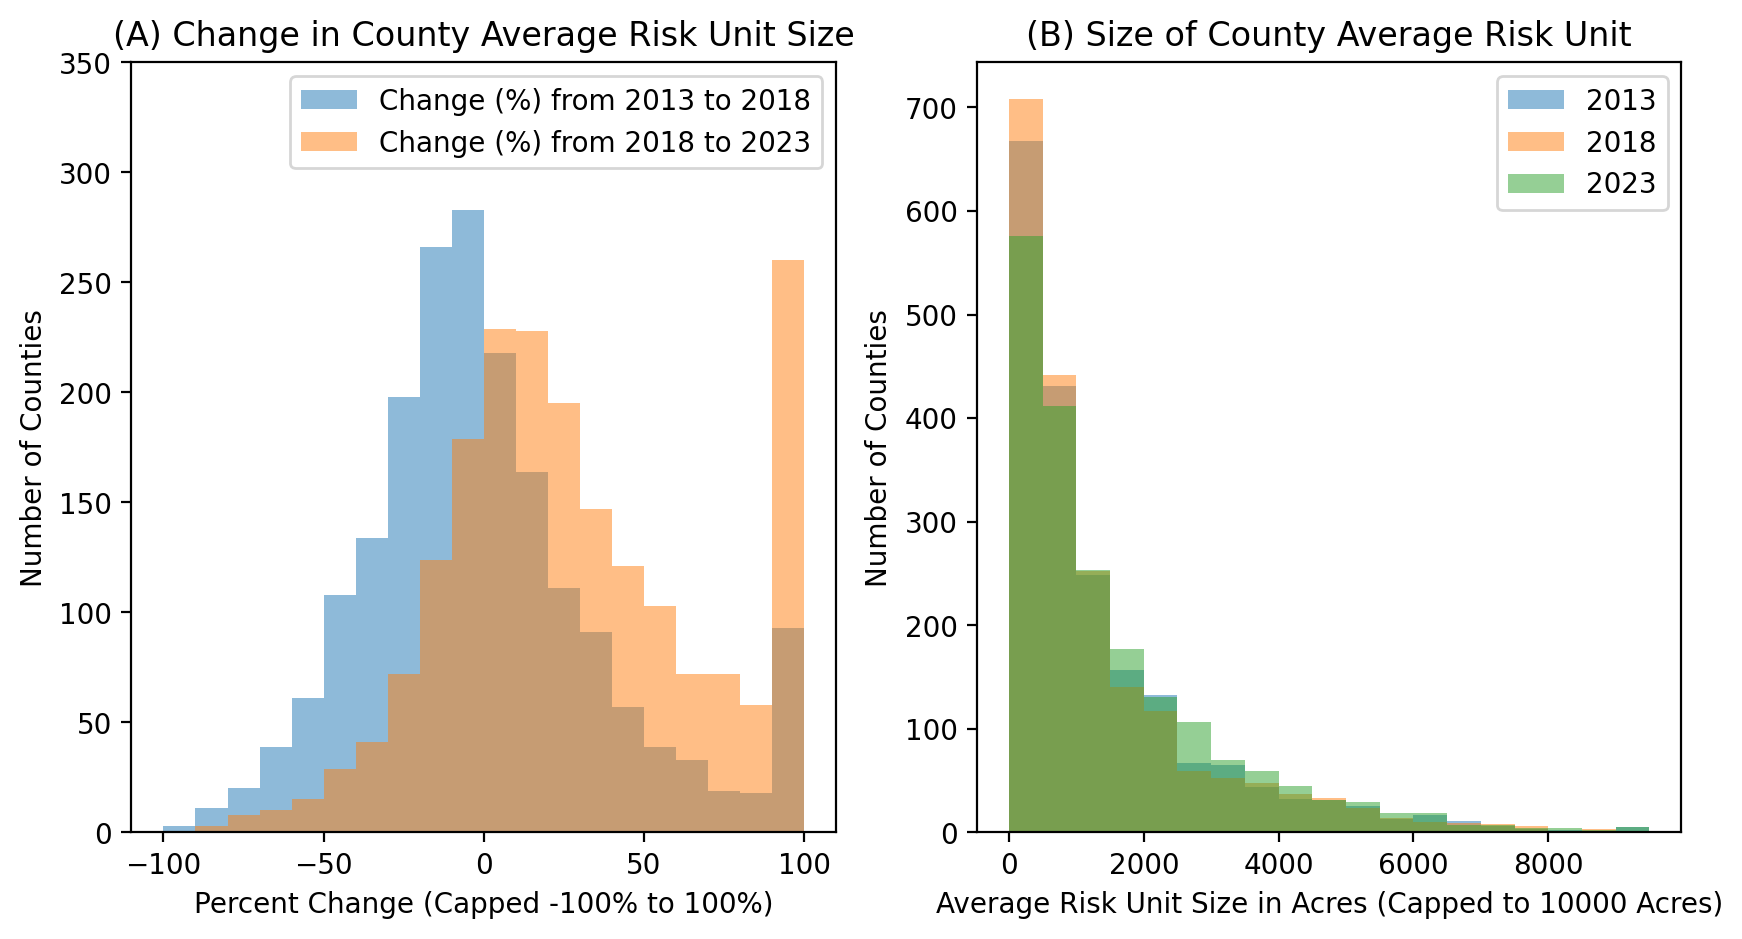
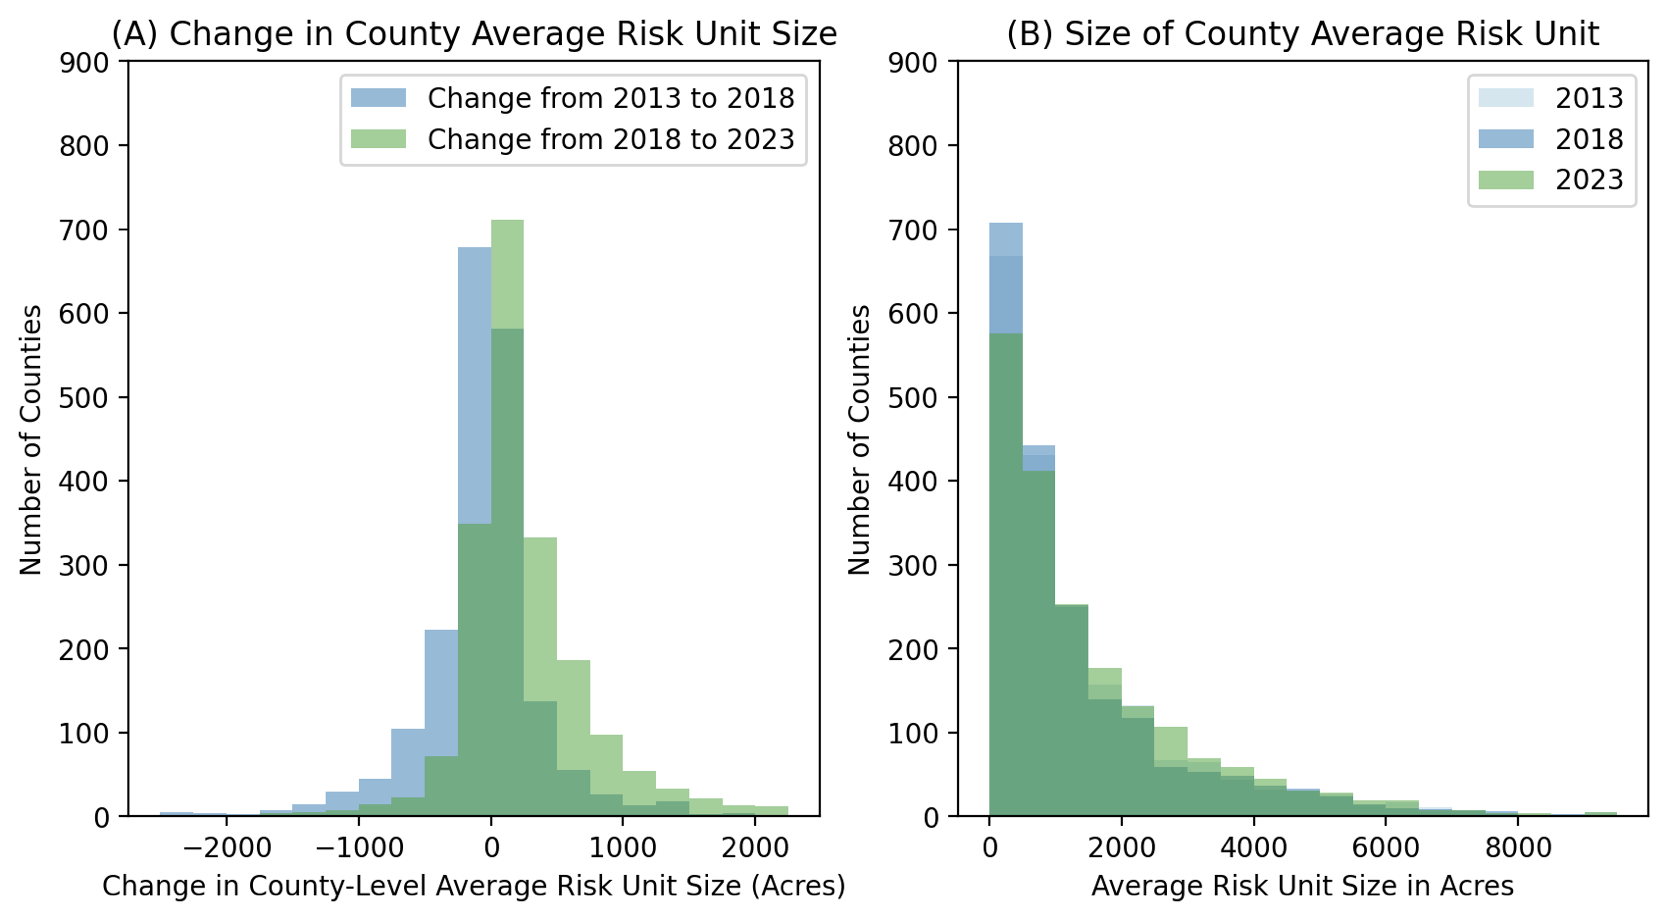
Additional updates to risk unit size discussion in supplemental.

Changed region(s): [[0.0, 0.0, 0.9976, 0.9739], [0.5923, 0.0, 0.9976, 0.2435]]

diff --git a/paper/supplemental.md b/paper/supplemental.md
@@ -42,9 +42,9 @@ We specifically use Mann Whitney U [@mann_test_1947] as variance is observed to 
 # Risk unit size
 The USDA provides anonymized information about insured units [@rma_statecountycrop_2024]. Though this information lacks geographic specificity, the USDA indicates the county in which these units are located. We provide a histogram of this distribution in Figure @fig:riskunit.
 
-![Examination of risk unit size in years 2013, 2018, and 2023. Visualizes the average size of the risk unit within a county. First, this figure shows how risk unit size changed between each year examined (A) to highlight that the structures do evolve substantially between years. However, these results also indicate that the overall distribution of risk unit sizes is relatively stable (B).](./img_static/risk_unit_shape.png "Examination of risk unit size in years 2013, 2018, and 2023. Visualizes the average size of the risk unit within a county. First, this figure shows how risk unit size changed between each year examined (A) to highlight that the structures do evolve substantially between years. However, these results also indicate that the overall distribution of risk unit sizes is relatively stable (B) when considered system-wide."){ width=95% #fig:riskunit}
+![Examination of risk unit size in years 2013, 2018, and 2023. Visualizes the average size of the risk unit within a county. First, this figure shows how risk unit size changed between each year examined (A) to highlight that the structures do evolve substantially between years. However, these results also indicate that the overall distribution of risk unit sizes is relatively stable (B) when considered system-wide. Some extreme outliers not shown to preseve detail.](./img_static/risk_unit_shape.png "Examination of risk unit size in years 2013, 2018, and 2023. Visualizes the average size of the risk unit within a county. First, this figure shows how risk unit size changed between each year examined (A) to highlight that the structures do evolve substantially between years. However, these results also indicate that the overall distribution of risk unit sizes is relatively stable (B) when considered system-wide. Some extreme outliers not shown to preseve detail."){ width=95% #fig:riskunit}
 
-Analysis highlights year to year instability at the county level which may reflect growers reconfiguring their risk structure to opitimize rates as yield profiles change over time. All this in mind, sampling the risk unit size at the county level likely represents over-confidence or overfitting to previous configurations. Even so, we observe that the system-wide risk unit size distribution remains relatively stable. This may suggest taht, even as more local changes to risk unit structure may be more substantial between years, overall expectations for the size of risk units are less fluid. All this in mind, we use that larger system-wide distribution to sample risk unit sizes within our Monte Carlo simulation instead of the county-level distributions. This also has the effect of propogating risk unit size uncertainty into results through the mechanics of the Monte Carlo.
+Analysis highlights year to year instability at the county level which may reflect growers reconfiguring their risk structure to opitimize rates as yield profiles change over time. All this in mind, sampling the risk unit size at the county level likely represents over-confidence or overfitting to previous configurations. Even so, we observe that the system-wide risk unit size distribution remains relatively stable. This may suggest that, even as more local changes to risk unit structure may be more substantial between years, overall expectations for the size of risk units are less fluid. All this in mind, we use that larger system-wide distribution to sample risk unit sizes within our Monte Carlo simulation instead of the county-level distributions. This also has the effect of propogating risk unit size uncertainty into results through the mechanics of the Monte Carlo.
 
 # Tool design
 
